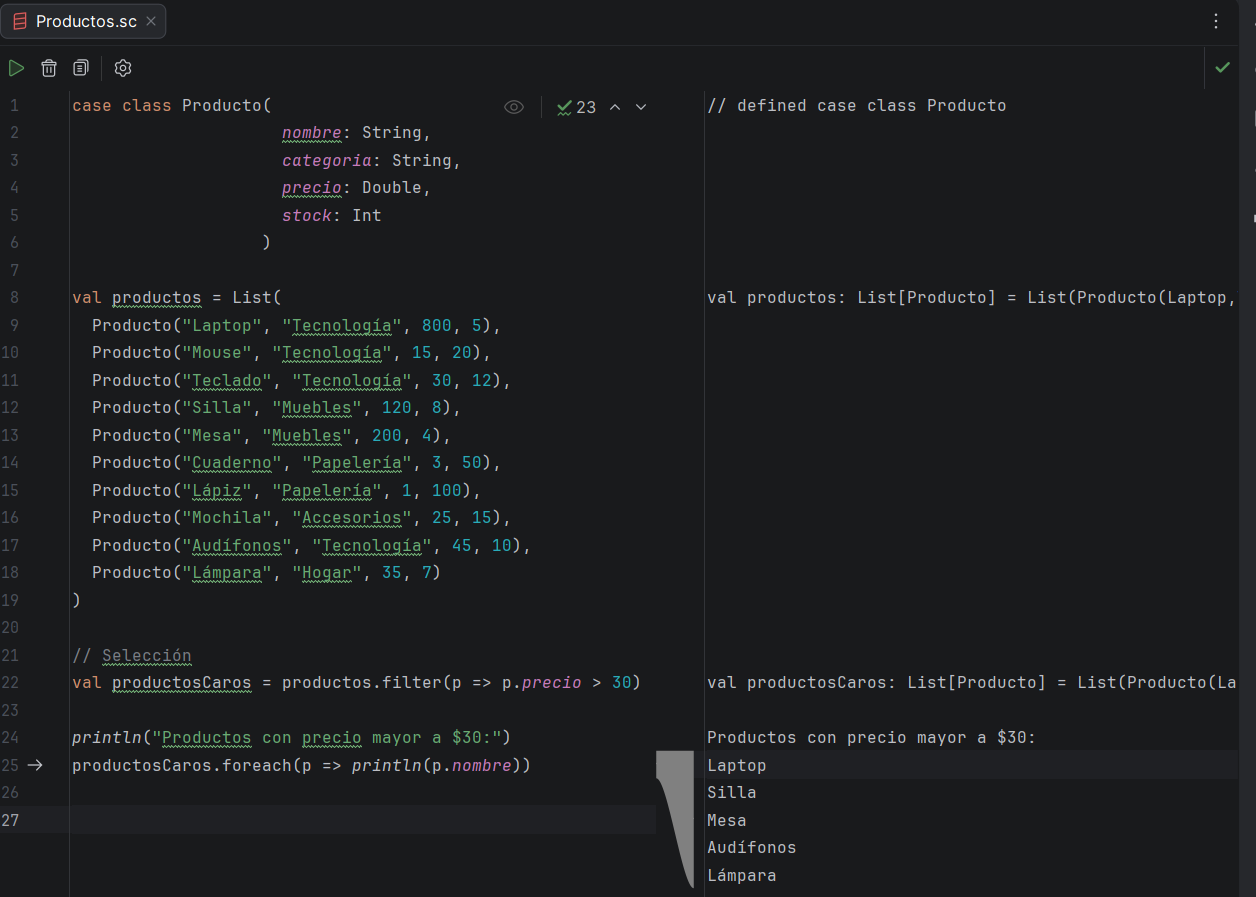
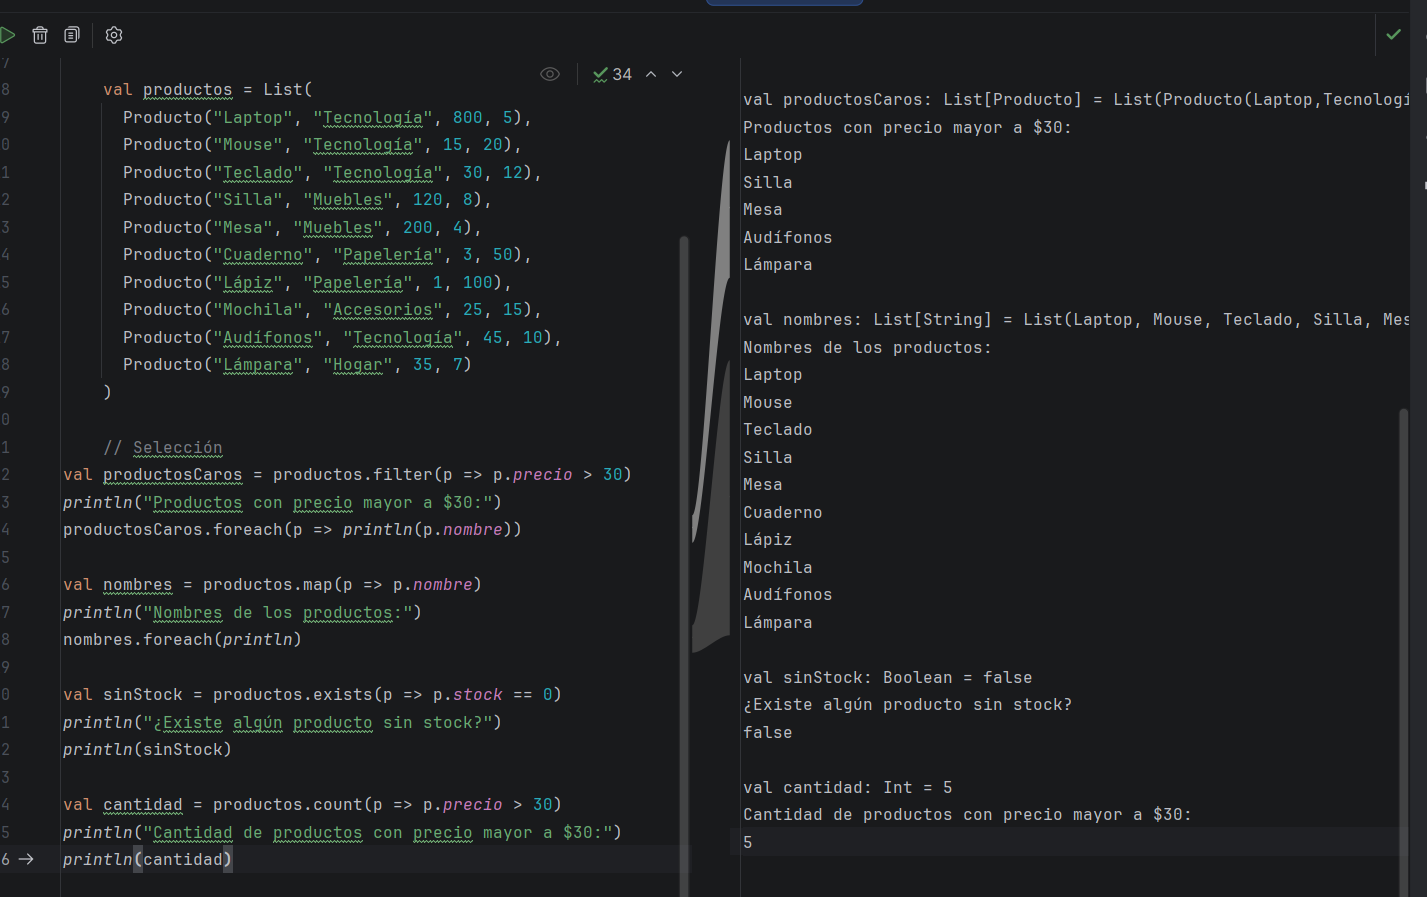
Estructura de carpetas lista y codigos de la Parte 3

diff --git a/java/ProductoApp.java b/java/ProductoApp.java
@@ -37,9 +37,31 @@ public class ProductoApp {
         );
 
       
+       // 1. Selección
         System.out.println("Productos con precio mayor a $30:");
         productos.stream()
             .filter(p -> p.precio > 30)
             .forEach(p -> System.out.println(p.nombre));
+
+        // 2. Transformación
+        System.out.println("\nNombres de los productos:");
+        productos.stream()
+            .map(p -> p.nombre)
+            .forEach(System.out::println);
+
+        // 3. Validación
+        boolean sinStock = productos.stream()
+            .anyMatch(p -> p.stock == 0);
+
+        System.out.println("\n¿Existe algún producto sin stock?");
+        System.out.println(sinStock);
+
+        // 4. Conteo
+        long cantidad = productos.stream()
+            .filter(p -> p.precio > 30)
+            .count();
+
+        System.out.println("\nCantidad de productos con precio mayor a $30:");
+        System.out.println(cantidad);
     }
 }

diff --git a/python/productos.py b/python/productos.py
@@ -1,3 +1,4 @@
+
 from dataclasses import dataclass
 
 @dataclass
@@ -21,12 +22,30 @@ productos = [
     Producto("Lámpara", "Hogar", 35, 7)
 ]
 
-# Selección
-productos_caros = list(
-    filter(lambda p: p.precio > 30, productos)
-)
+# 1. Selección
+productos_caros = list(filter(lambda p: p.precio > 30, productos))
 
 print("Productos con precio mayor a $30:")
-
 for p in productos_caros:
     print(p.nombre)
+
+
+# 2. Transformación
+nombres = list(map(lambda p: p.nombre, productos))
+
+print("\nNombres de los productos:")
+print(nombres)
+
+
+# 3. Validación
+sin_stock = any(p.stock == 0 for p in productos)
+
+print("\n¿Existe algún producto sin stock?")
+print(sin_stock)
+
+
+# 4. Conteo
+cantidad = sum(1 for p in productos if p.precio > 30)
+
+print("\nCantidad de productos con precio mayor a $30:")
+print(cantidad)
